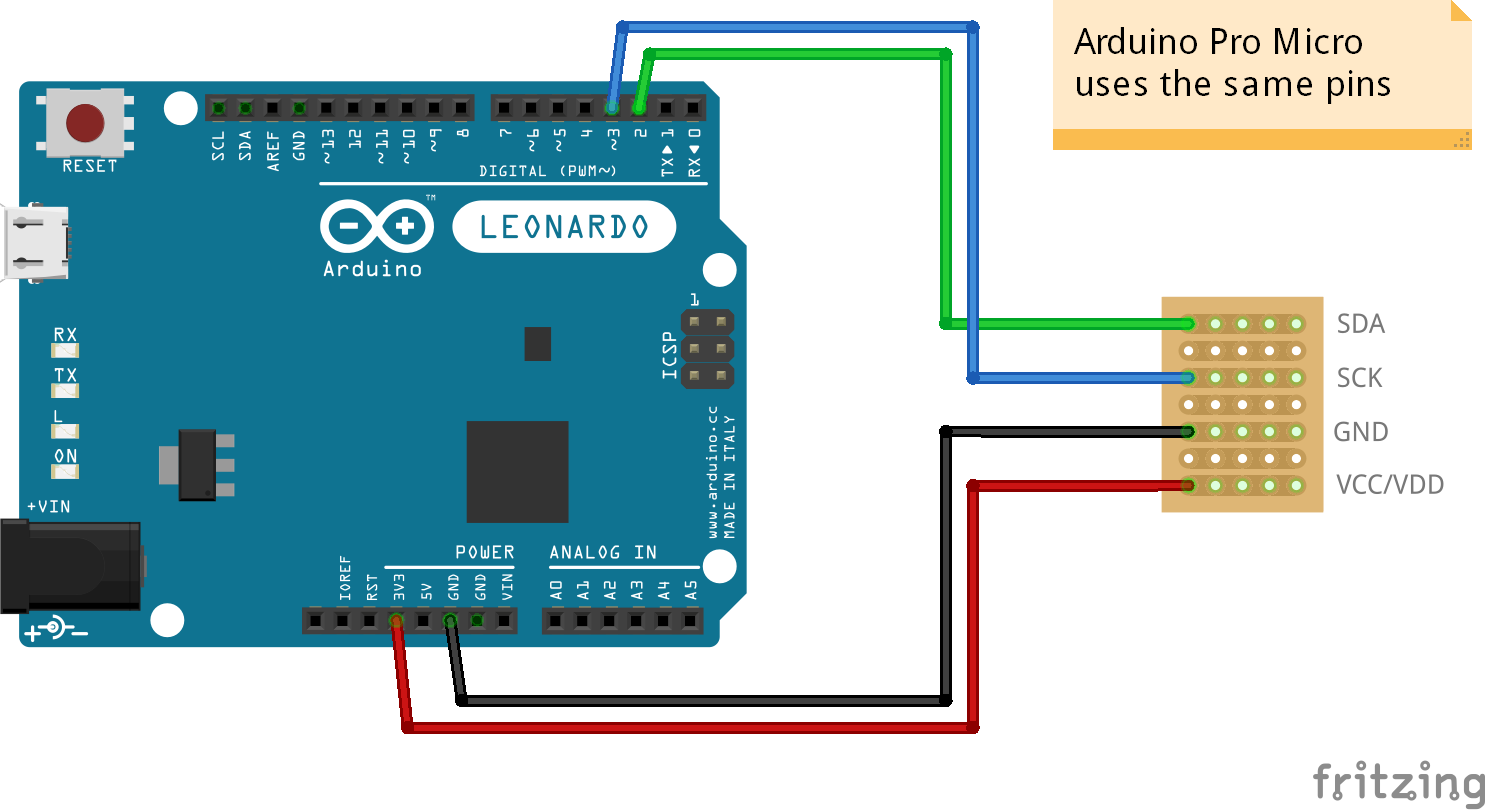
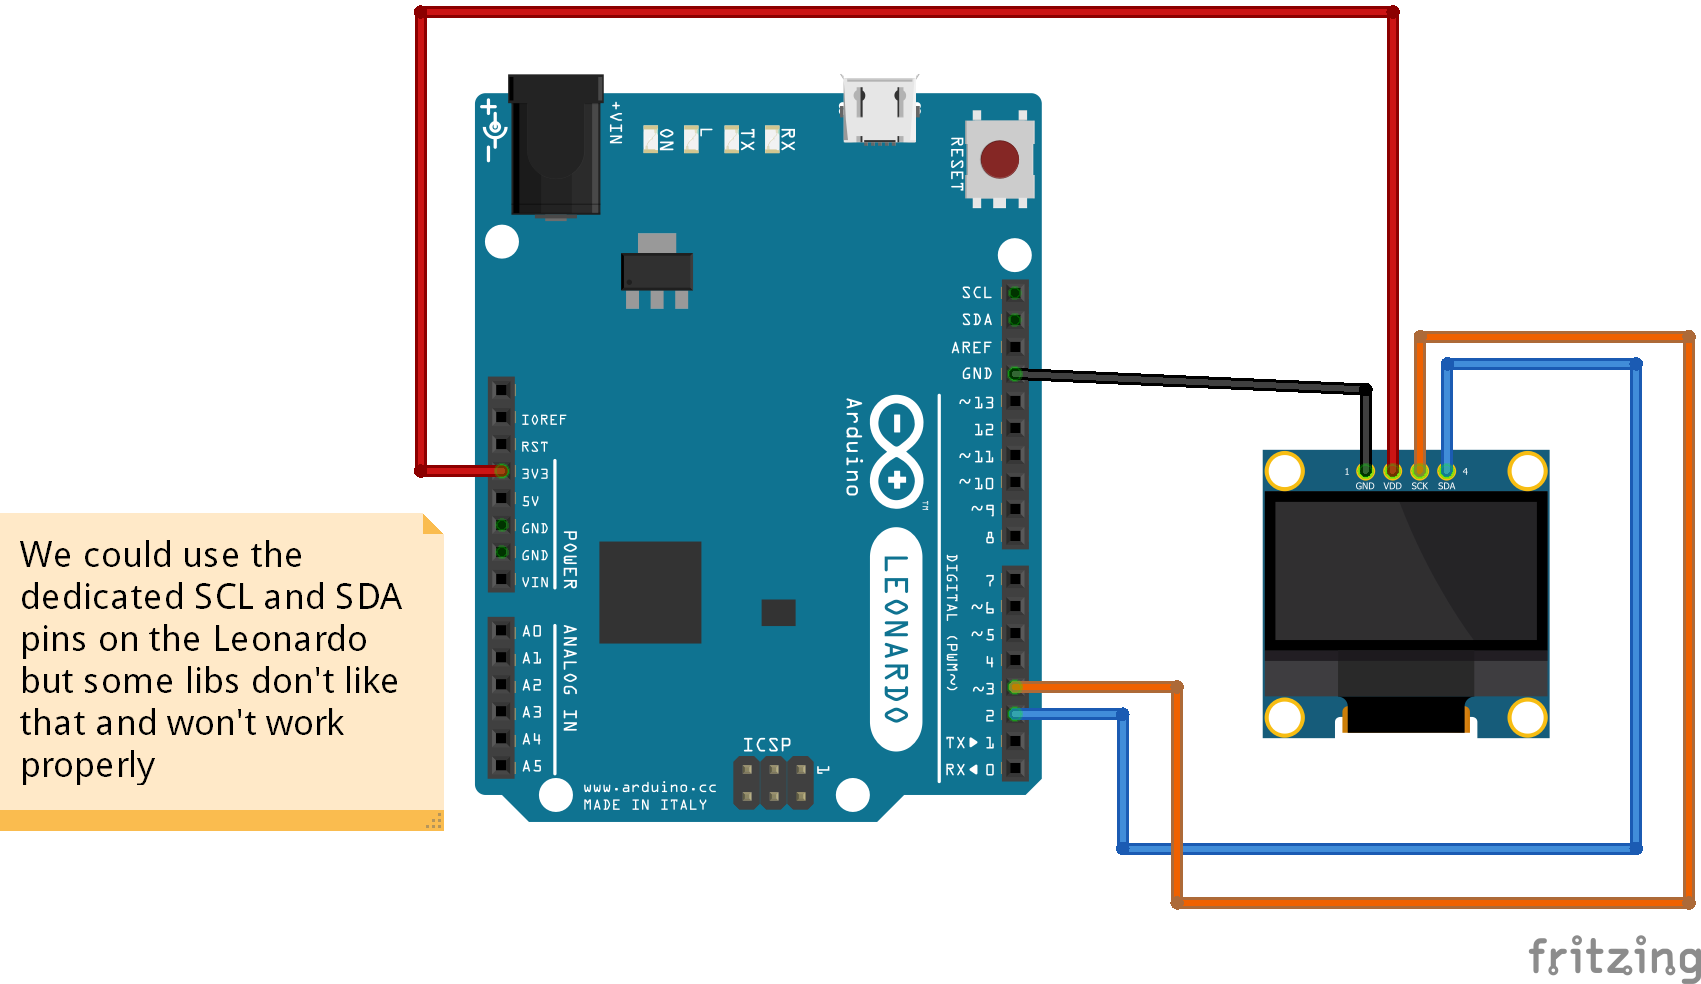
update 128x64 screen test with proper schematics

diff --git a/Test-screen-SSD1306-128x64-adafruit/README.md b/Test-screen-SSD1306-128x64-adafruit/README.md
@@ -14,6 +14,8 @@ Make sure your screen accepts 5V (although they almost all accept 5V). If not, u
 
 ![Schema](schema.png)
 
+Note: The OLED screen is not present by default in Fritzing. Import it from the `oled_128x64_I2C_monochrome_display.fzpz` file in this directory.
+
 ## Code
 
 This test uses 2 libraries from Adafruit:
